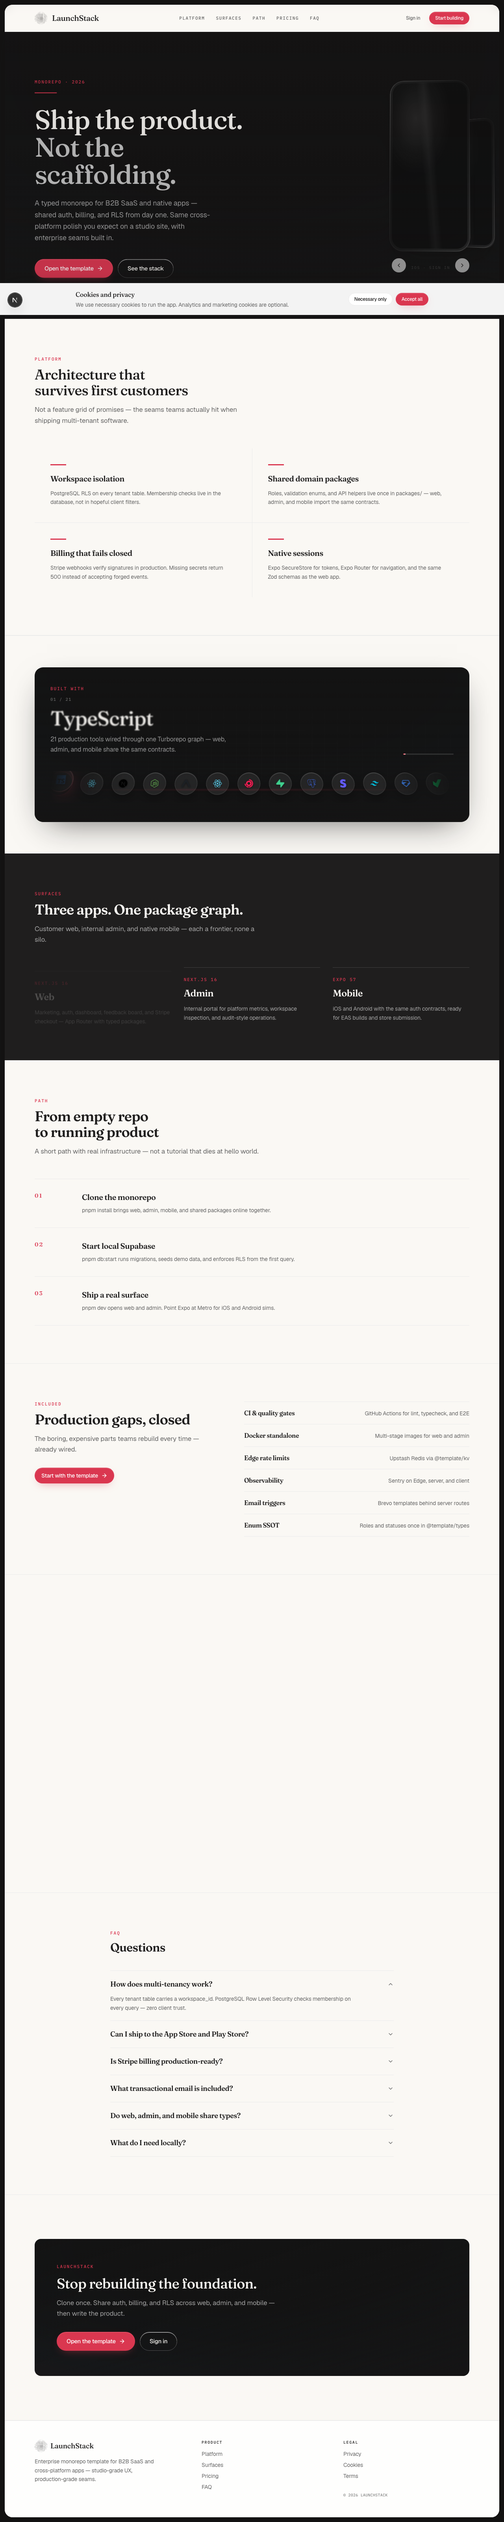
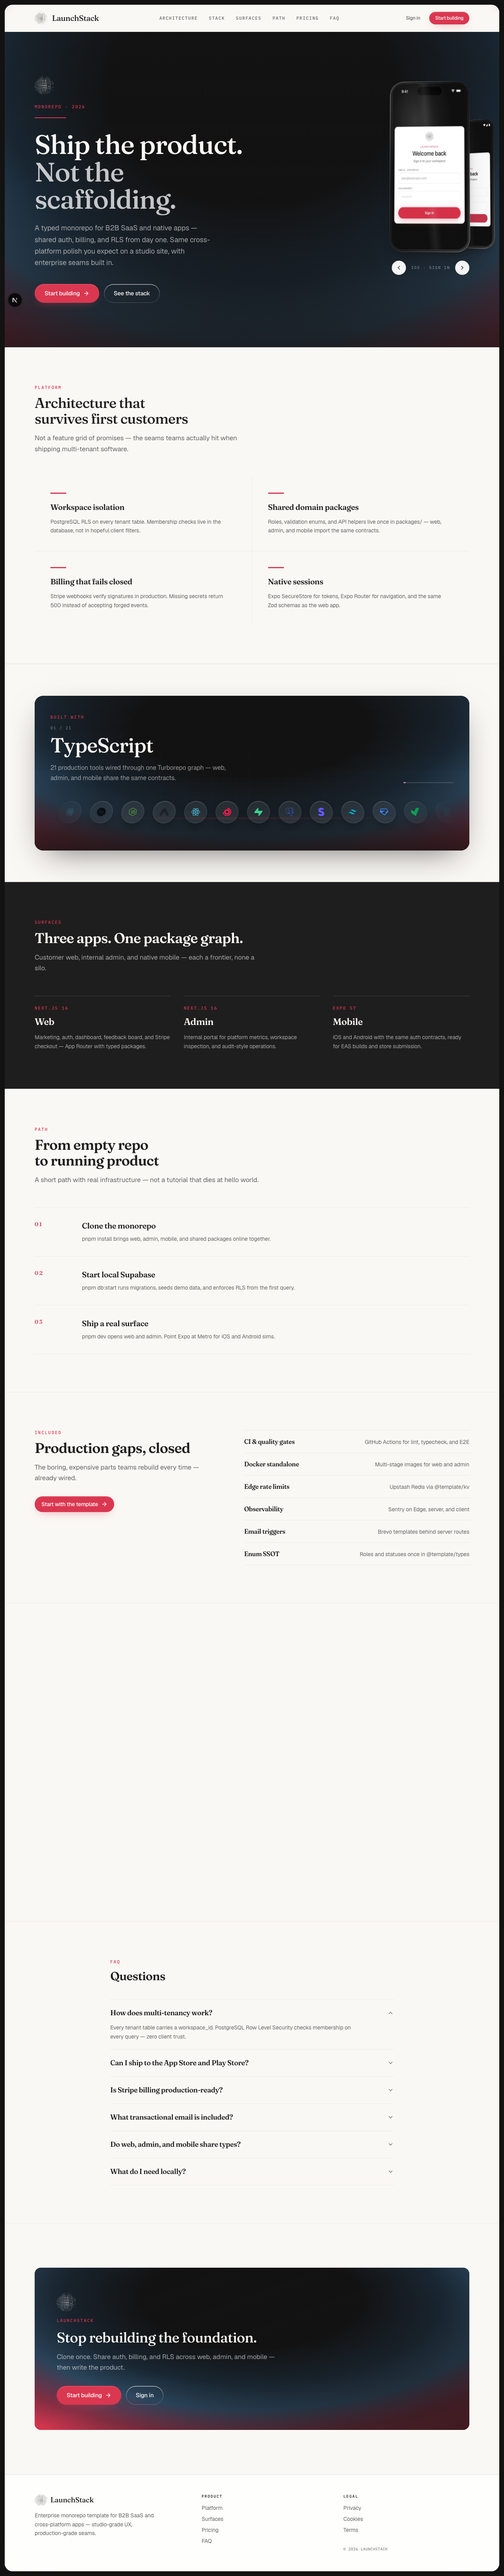
feat(web): polish marketing landing and refresh README hero shot
Feature the animated launch pad mark in the hero and CTA, align primary
copy with Start building, fix above-the-fold motion for reliable renders,
and add a Playwright capture script for docs/images/landing-hero.png.

diff --git a/apps/web/src/app/(marketing)/components/HeroSection.tsx b/apps/web/src/app/(marketing)/components/HeroSection.tsx
@@ -2,7 +2,7 @@
 
 import React, { useRef } from 'react';
 import Link from 'next/link';
-import { Button } from '@template/ui';
+import { BrandMark, Button } from '@template/ui';
 import { ArrowRight } from 'lucide-react';
 import { motion } from 'framer-motion';
 import AnimatedGradientBackground from '@/components/ui/animated-gradient-background';
@@ -36,10 +36,10 @@ export const HeroSection = () => {
       <div className="relative z-10 mx-auto grid max-w-6xl items-center gap-12 px-6 py-16 md:grid-cols-[1fr_1fr] md:py-24 lg:py-28">
         <motion.div
           initial={{ opacity: 0, y: 24 }}
-          whileInView={{ opacity: 1, y: 0 }}
-          viewport={{ once: true, margin: '-10%' }}
+          animate={{ opacity: 1, y: 0 }}
           transition={{ duration: 0.55, ease: [0.16, 1, 0.3, 1] }}
         >
+          <BrandMark size="lg" tone="paper" animated className="mb-6" />
           <p className="type-eyebrow text-accent">Monorepo · 2026</p>
           <div className="atlas-rule mt-5 mb-8 w-20" />
           <h1 className="font-display text-[clamp(2.5rem,5.5vw,4.25rem)] font-medium leading-[1.02] tracking-tight text-balance">
@@ -54,7 +54,7 @@ export const HeroSection = () => {
           <div className="mt-10 flex flex-wrap items-center gap-3">
             <Link href="/signup">
               <Button size="lg" className="gap-2">
-                Open the template <ArrowRight className="h-4 w-4" />
+                Start building <ArrowRight className="h-4 w-4" />
               </Button>
             </Link>
             <a href="#stack">
@@ -71,8 +71,7 @@ export const HeroSection = () => {
 
         <motion.aside
           initial={{ opacity: 0, y: 30 }}
-          whileInView={{ opacity: 1, y: 0 }}
-          viewport={{ once: true }}
+          animate={{ opacity: 1, y: 0 }}
           transition={{ duration: 0.65, delay: 0.1, ease: [0.16, 1, 0.3, 1] }}
           className="relative flex justify-center md:justify-end"
         >

diff --git a/apps/web/src/app/(marketing)/components/CtaSection.tsx b/apps/web/src/app/(marketing)/components/CtaSection.tsx
@@ -2,7 +2,7 @@
 
 import React from 'react';
 import Link from 'next/link';
-import { Button } from '@template/ui';
+import { BrandMark, Button } from '@template/ui';
 import { ArrowRight } from 'lucide-react';
 import AnimatedGradientBackground from '@/components/ui/animated-gradient-background';
 import { LAUNCHSTACK_HERO_GRADIENT } from '../lib/stackGradient';
@@ -25,6 +25,7 @@ export const CtaSection = () => (
           aria-hidden
         />
         <div className="relative z-10 max-w-xl">
+          <BrandMark size="lg" tone="paper" animated className="mb-4" />
           <p className="type-eyebrow text-accent">LaunchStack</p>
           <h2 className="mt-4 font-display text-3xl font-medium tracking-tight sm:text-4xl text-balance">
             Stop rebuilding the foundation.
@@ -36,7 +37,7 @@ export const CtaSection = () => (
           <div className="mt-8 flex flex-wrap gap-3">
             <Link href="/signup">
               <Button size="lg" className="gap-2">
-                Open the template <ArrowRight className="h-4 w-4" />
+                Start building <ArrowRight className="h-4 w-4" />
               </Button>
             </Link>
             <Link href="/login">

diff --git a/apps/web/src/app/(marketing)/components/MarketingHeader.tsx b/apps/web/src/app/(marketing)/components/MarketingHeader.tsx
@@ -17,7 +17,10 @@ export const MarketingHeader = () => (
 
       <nav className="hidden items-center gap-7 font-mono text-[11px] font-medium uppercase tracking-[0.14em] text-muted md:flex">
         <a href="#platform" className="transition-colors hover:text-accent">
-          Platform
+          Architecture
+        </a>
+        <a href="#stack" className="transition-colors hover:text-accent">
+          Stack
         </a>
         <a href="#surfaces" className="transition-colors hover:text-accent">
           Surfaces
